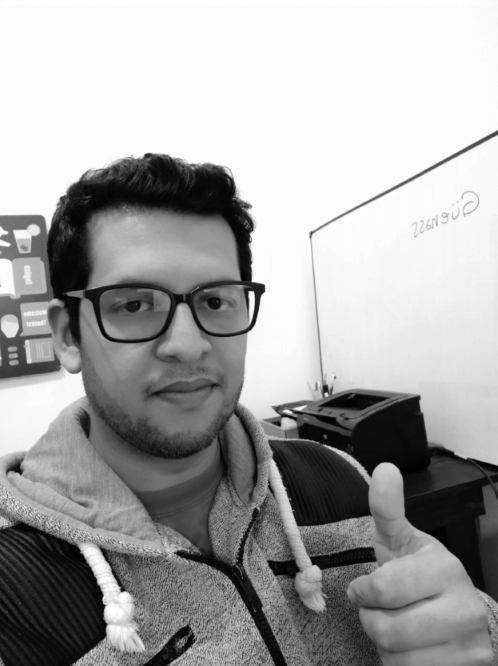
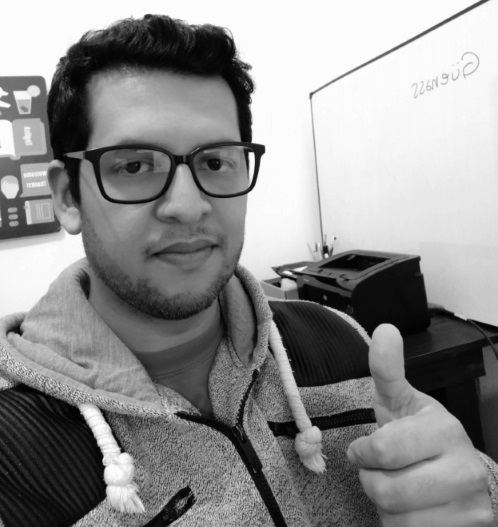
as

diff --git a/index.html b/index.html
@@ -22,7 +22,7 @@
         <section>
             <div class="container">
             <header>
-                <ul class="nav-bar pb-0">
+                <ul class="nav-bar pb-3">
                     <li class="header-item d-inline-block"><a href="https://www.instagram.com/alejandro_tolaba"  target="_blank"><img src="https://icongr.am/entypo/instagram.svg?size=28&color=112a49" alt="Instagram"></a></li>
                     <li class="header-item d-inline-block"><a href="https://www.facebook.com/alejandro_tolaba" target="_blank"><img src="https://icongr.am/entypo/facebook.svg?size=28&color=112a49" alt="Facebook" target="_blank"></a></li>
                     <li class="header-item d-inline-block"><a href="https://twitter.com/atolaba" target="_blank"><img src="https://icongr.am/entypo/twitter.svg?size=28&color=112a49" alt="Twitter" target="_blank"></a></li>
@@ -30,15 +30,16 @@
 
                 </ul>
             </header>
-                <div class="row pb-3 px-0 mx-0">
+                <div class="row py-3 px-0 mx-0">
                     <div class="col-md-6 my-auto">
                         <h1>Alejandro Tolaba,<br>
                         Translator and Web Dev</h1>
                         <p>Hi. I'm Alejandro Tolaba, translator of English and web-dev student at Escuela Dev Rock, from Argentina. </p>
-                        <a class="btn cta btn" href="ttps://wa.me/543513981202" role="button">Let's talk</a>
+                        <a class="btn cta btn-lg" href="ttps://wa.me/543513981202" role="button">Let's talk</a>
                     </div>
                     <div class="col-md-6 my-auto">
-                        <img src="./img/alejandro_tolaba.jpg" class="img-fluid">
+                        <img src="./img/dot.48e7cab2.png" class="dots">
+                        <img src="./img/alejandro_tolaba.jpg" class="img-fluid profile">
                     </div>
                 </div>
                 <div class="row text-center">

diff --git a/css/main.css b/css/main.css
@@ -22,7 +22,7 @@ section{
 
 .nav-bar{
   text-align:right;
-  margin-bottom: 0px;
+  margin-bottom: 30px;
 }
 
 .header-item{
@@ -42,6 +42,7 @@ section{
 
 .col-md-6{
   padding:50px;
+  margin-left: 0px;
 }
 
 /*Texts*/
@@ -59,10 +60,20 @@ p{
   font-size:17px;
 }
 
-/*Profile pic*/
+/*Pictures*/
 .profile{
-  width=70%;
-  max-width=100%;
+  width:300px;
+  max-width:100%;
+  position:relative;
+  z-index: 2;
+}
+
+.dots{
+  width:150px;
+  position:absolute;
+  top:3px;
+  left:-30px;
+  z-index: 1;
 }
 
 /*Button*/
